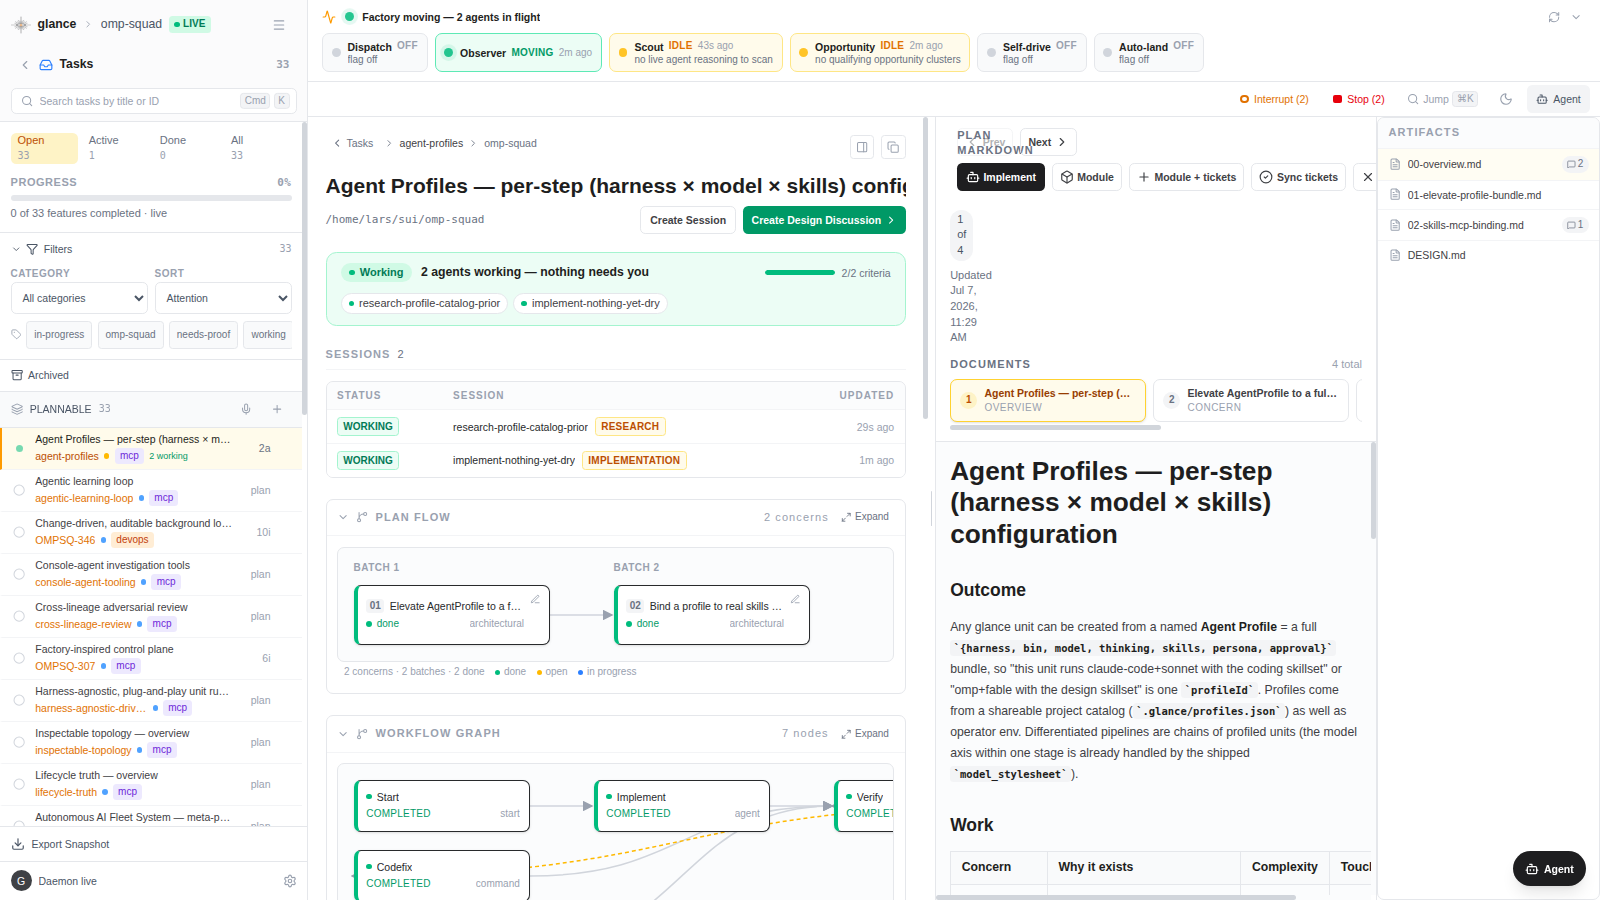
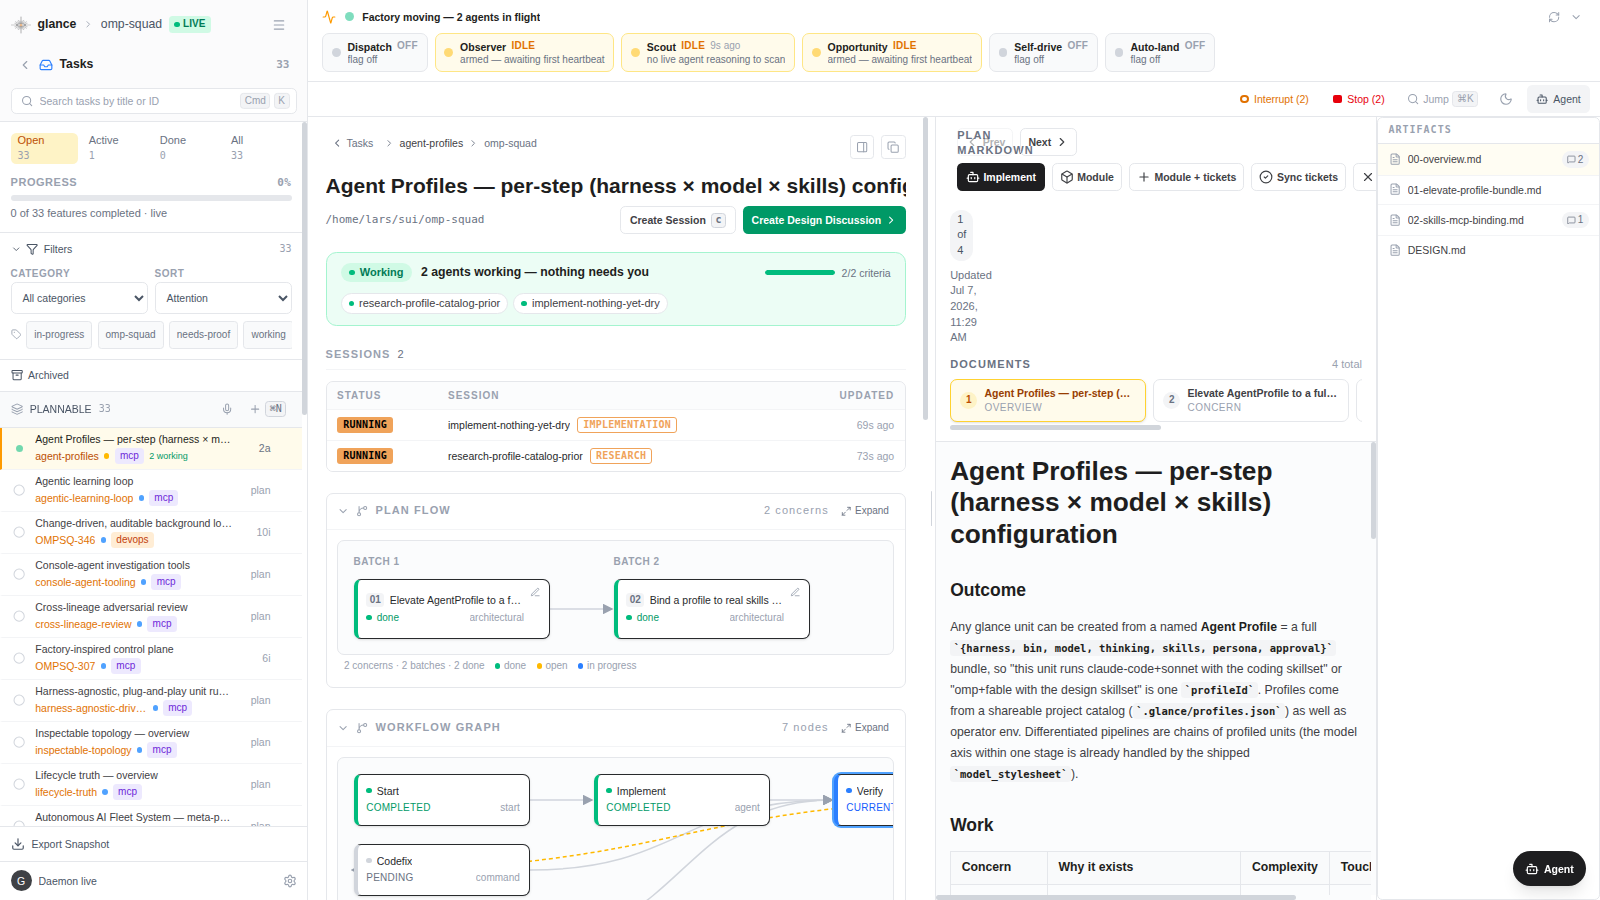
refactor(webapp): adopt X1's real kit API post-#118 rebase
Stand-in kit files dropped wholesale for main's shipped kit (planned
X1→X2 reconciliation). Consumer adjustments to the real API:
- StatusChip: status/tone/variant props (not children); tones ember/
  attention replace the stand-in's agent/warning; sessionTypeTone now
  returns 'ember'|'neutral'. Session rows' STATUS cell moved onto the
  kit chip too, so rows and the cockpit share one vocabulary (working→
  RUNNING solid ember, input→NEEDS YOU, free-text labels verbatim
  uppercase).
- Kbd: keys prop. PanelSection: bodyClassName="overflow-y-auto" (real
  body has no overflow). MonoLabel dropped for the repo path — the real
  one is uppercase section furniture, wrong register for a file path.
- Tests updated to the kit's rendered vocabulary; 02 screenshot
  re-captured live against the real kit (RUNNING/RESEARCH/IMPLEMENTATION
  chips, `c` Kbd on Create Session).

diff --git a/webapp/src/components/TaskSessionsTable.test.tsx b/webapp/src/components/TaskSessionsTable.test.tsx
@@ -30,22 +30,24 @@ describe('TaskSessionsTable', () => {
     expect(html).toContain('No sessions yet');
   });
 
-  test('renders one row per session with its status and type chip', () => {
+  test('renders one row per session with its status and type chip (kit vocabulary)', () => {
     const rows = sessionRowsFromAgents([agent({ id: 'a1', name: 'Design discussion: token refresh strategy', status: 'input', lastActivity: Date.now() })]);
     const html = renderToStaticMarkup(<TaskSessionsTable rows={rows} onOpenSession={() => {}} />);
     expect(html).toContain('Design discussion: token refresh strategy');
-    expect(html).toContain('>Design<');
-    expect(html).toContain('>input<');
+    // The kit StatusChip renders the KNOWN-map labels: input → NEEDS YOU; the free-text type
+    // label renders verbatim uppercased.
+    expect(html).toContain('>DESIGN<');
+    expect(html).toContain('>NEEDS YOU<');
   });
 
   test('the untyped Session fallback chip renders muted, visually distinct from real types', () => {
     const rows = sessionRowsFromAgents([
       agent({ id: 'a1', name: 'chat' }), // untyped → neutral tone
-      agent({ id: 'a2', name: 'Research prior art' }), // typed → agent tone
+      agent({ id: 'a2', name: 'Research prior art' }), // typed → ember tone
     ]);
     const html = renderToStaticMarkup(<TaskSessionsTable rows={rows} onOpenSession={() => {}} />);
-    // neutral tone (gray family) on the fallback; agent tone (amber family) on the real type
-    expect(html).toMatch(/border-gray-200[^>]*>Session</);
-    expect(html).toMatch(/border-amber-200[^>]*>Research</);
+    // neutral outline (gray) on the fallback; ember (accent var) on the real type
+    expect(html).toMatch(/border-gray-300[^>]*>SESSION</);
+    expect(html).toMatch(/var\(--wf-accent\)[^>]*>RESEARCH</);
   });
 });

diff --git a/webapp/src/lib/sessionType.ts b/webapp/src/lib/sessionType.ts
@@ -52,8 +52,9 @@ function matchType(signal: string): SessionType | null {
   return null;
 }
 
-/** Tone bucket per session type, for StatusChip-style coloring — ember (agent-active) family for
- *  every real phase, neutral for the untyped fallback so it visually reads as "less specific". */
-export function sessionTypeTone(type: SessionType): 'agent' | 'neutral' {
-  return type === 'Session' ? 'neutral' : 'agent';
+/** Tone bucket per session type for the kit StatusChip — ember (the agent/active role in the
+ *  kit's tone map) for every real derived phase, neutral for the untyped fallback so it visually
+ *  reads as "less specific" rather than dressing a guess up as knowledge. */
+export function sessionTypeTone(type: SessionType): 'ember' | 'neutral' {
+  return type === 'Session' ? 'neutral' : 'ember';
 }

diff --git a/webapp/src/components/TaskSessionsTable.tsx b/webapp/src/components/TaskSessionsTable.tsx
@@ -1,6 +1,5 @@
 import React from 'react';
 import type { AgentDTO } from '../lib/dto';
-import { agentStatusBadgeClass } from '../lib/agent-badges';
 import { deriveSessionType, sessionTypeTone, type SessionType } from '../lib/sessionType';
 import { fmtSince } from '../lib/factoryStatus';
 import { StatusChip } from './kit/StatusChip';
@@ -55,7 +54,10 @@ export function TaskSessionsTable({ rows, onOpenSession }: { rows: TaskSessionRo
               className="cursor-pointer bg-white transition-colors hover:bg-gray-50 dark:bg-gray-950 dark:hover:bg-gray-900/60"
             >
               <td className="px-3 py-2 align-middle">
-                <span className={`inline-flex items-center rounded px-1.5 py-0.5 text-[10px] font-semibold uppercase border ${agentStatusBadgeClass(row.status)}`}>{row.status}</span>
+                {/* Kit chip = the universal state language (X1's KNOWN map: working→RUNNING solid
+                    ember, input→NEEDS YOU, stopped→DONE dim) so session rows and the cockpit never
+                    drift apart in vocabulary. */}
+                <StatusChip status={row.status} />
               </td>
               <td className="min-w-0 px-3 py-2 align-middle">
                 <div className="flex min-w-0 items-center gap-2">
@@ -63,7 +65,7 @@ export function TaskSessionsTable({ rows, onOpenSession }: { rows: TaskSessionRo
                   {/* Untyped "Session" renders muted (neutral tone) so a real derived type is
                       visually distinct from the honest fallback — the chip must not dress a
                       guess up as knowledge. */}
-                  <StatusChip tone={sessionTypeTone(row.type)}>{row.type}</StatusChip>
+                  <StatusChip status={row.type} tone={sessionTypeTone(row.type)} />
                 </div>
               </td>
               <td className="whitespace-nowrap px-3 py-2 text-right text-gray-400 dark:text-gray-500">

diff --git a/webapp/src/lib/sessionType.test.ts b/webapp/src/lib/sessionType.test.ts
@@ -48,9 +48,9 @@ describe('deriveSessionType', () => {
 });
 
 describe('sessionTypeTone', () => {
-  test('every real phase is the agent-active tone; the untyped fallback is neutral', () => {
-    expect(sessionTypeTone('Research')).toBe('agent');
-    expect(sessionTypeTone('Implementation')).toBe('agent');
+  test('every real phase is the ember (agent-active) tone; the untyped fallback is neutral', () => {
+    expect(sessionTypeTone('Research')).toBe('ember');
+    expect(sessionTypeTone('Implementation')).toBe('ember');
     expect(sessionTypeTone('Session')).toBe('neutral');
   });
 });

diff --git a/webapp/src/components/TaskDetail.tsx b/webapp/src/components/TaskDetail.tsx
@@ -21,7 +21,6 @@ import { PlanFlowDiagram } from './PlanFlowDiagram';
 import { WorkflowGraphOverlay } from './WorkflowGraphOverlay';
 import { TaskSessionsTable, sessionRowsFromAgents } from './TaskSessionsTable';
 import { TaskArtifactsRail } from './TaskArtifactsRail';
-import { MonoLabel } from './kit/MonoLabel';
 import { Kbd } from './kit/Kbd';
 import type { GraphConcernInput } from '../lib/planGraph';
 import type { TaskComment, TaskDecision, TaskRelationship } from '../types';
@@ -1619,7 +1618,7 @@ export const TaskDetail = () => {
                   {issueIdentifier(task) && (
                     <span className="rounded border border-gray-200 px-1.5 py-0.5 font-mono text-[11px] font-medium text-gray-600 dark:border-gray-700 dark:text-gray-300">{issueIdentifier(task)}</span>
                   )}
-                  <MonoLabel>{task.properties.project.id}</MonoLabel>
+                  <span className="font-mono text-[11px] text-gray-500 dark:text-gray-400">{task.properties.project.id}</span>
                 </div>
                 <div className="flex flex-wrap items-center gap-2">
                   <button
@@ -1627,7 +1626,7 @@ export const TaskDetail = () => {
                     onClick={() => setSessionComposerOpen((open) => !open)}
                     className="inline-flex min-h-8 items-center gap-1.5 rounded-md border border-gray-200 px-2.5 py-1 text-xs font-semibold text-gray-700 transition-colors hover:bg-gray-50 focus-visible:ring-2 focus-visible:ring-amber-500 dark:border-gray-700 dark:text-gray-200 dark:hover:bg-gray-800"
                   >
-                    Create Session <Kbd>c</Kbd>
+                    Create Session <Kbd keys="c" />
                   </button>
                   <button
                     type="button"

diff --git a/webapp/src/components/TaskArtifactsRail.tsx b/webapp/src/components/TaskArtifactsRail.tsx
@@ -47,7 +47,7 @@ export function TaskArtifactsRail({
   const counts = React.useMemo(() => annotationCountByPath(comments), [comments]);
 
   return (
-    <PanelSection title="Artifacts" className="h-full">
+    <PanelSection title="Artifacts" className="h-full" bodyClassName="overflow-y-auto">
       <div className="divide-y divide-gray-100 dark:divide-gray-800">
         {documents.length === 0 && !doneProof && (
           <div className="px-3 py-6 text-center text-xs text-gray-400 dark:text-gray-500">No artifacts yet.</div>
@@ -80,7 +80,7 @@ export function TaskArtifactsRail({
             <div className="min-w-0 flex-1">
               <div className="flex items-center gap-1.5 text-gray-700 dark:text-gray-300">
                 <span className="font-medium">done-proof</span>
-                <StatusChip tone={doneProof.verified === 'green' ? 'success' : doneProof.verified === 'red-baseline' ? 'warning' : 'neutral'}>{doneProof.verified}</StatusChip>
+                <StatusChip status={doneProof.verified} tone={doneProof.verified === 'green' ? 'success' : doneProof.verified === 'red-baseline' ? 'attention' : 'neutral'} />
               </div>
               <div className="mt-0.5 truncate font-mono text-[10px] text-gray-400 dark:text-gray-500">{doneProof.commit.slice(0, 10)} · {fmtSince(Math.max(0, Math.floor((Date.now() - doneProof.provenAt) / 1000)))}</div>
             </div>

diff --git a/webapp/src/components/TaskArtifactsRail.test.tsx b/webapp/src/components/TaskArtifactsRail.test.tsx
@@ -51,6 +51,6 @@ describe('TaskArtifactsRail', () => {
       />,
     );
     expect(html).toContain('done-proof');
-    expect(html).toContain('>green<');
+    expect(html).toContain('>GREEN<'); // kit StatusChip uppercases free-text labels
   });
 });

diff --git a/webapp/src/components/WorkbenchPane.tsx b/webapp/src/components/WorkbenchPane.tsx
@@ -722,7 +722,7 @@ export const WorkbenchPane = ({ collapsed, onToggleCollapsed }: WorkbenchPanePro
                       actually bound. */}
                   <button onClick={handleCreateTask} className="flex min-h-8 items-center justify-center gap-1 rounded px-1.5 text-gray-400 transition-colors hover:bg-gray-100 hover:text-gray-600 focus-visible:ring-2 focus-visible:ring-amber-500 dark:hover:bg-gray-800 dark:hover:text-gray-300" aria-label="Create task" title="Create task (⌘N)">
                     <Plus className="h-3.5 w-3.5" aria-hidden="true" />
-                    <Kbd>⌘N</Kbd>
+                    <Kbd keys="⌘N" />
                   </button>
                 </div>
               </div>